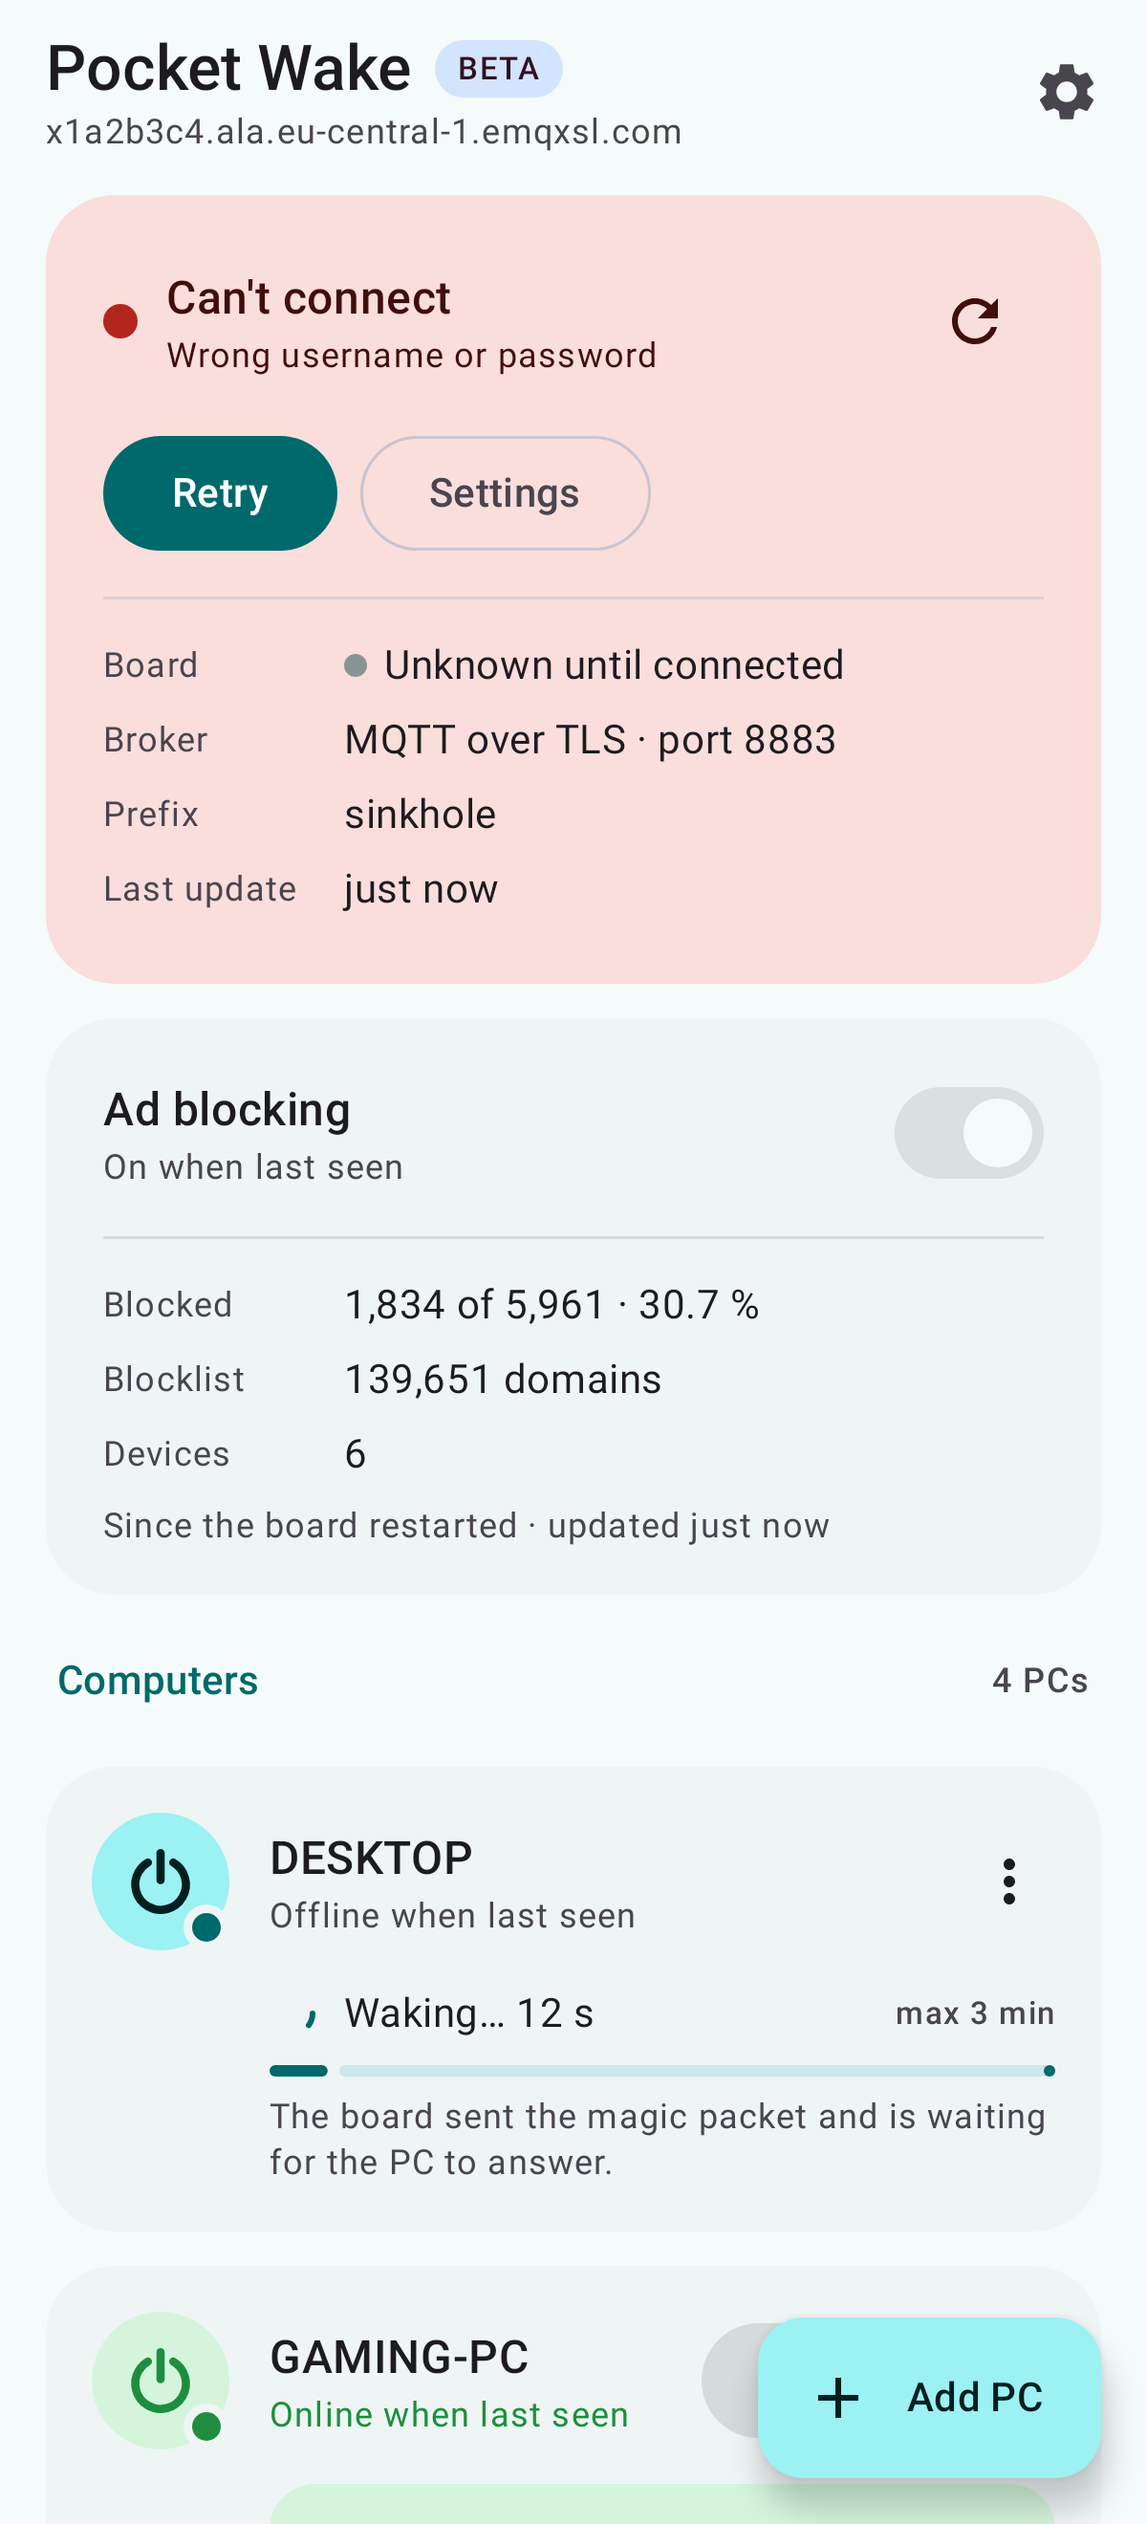
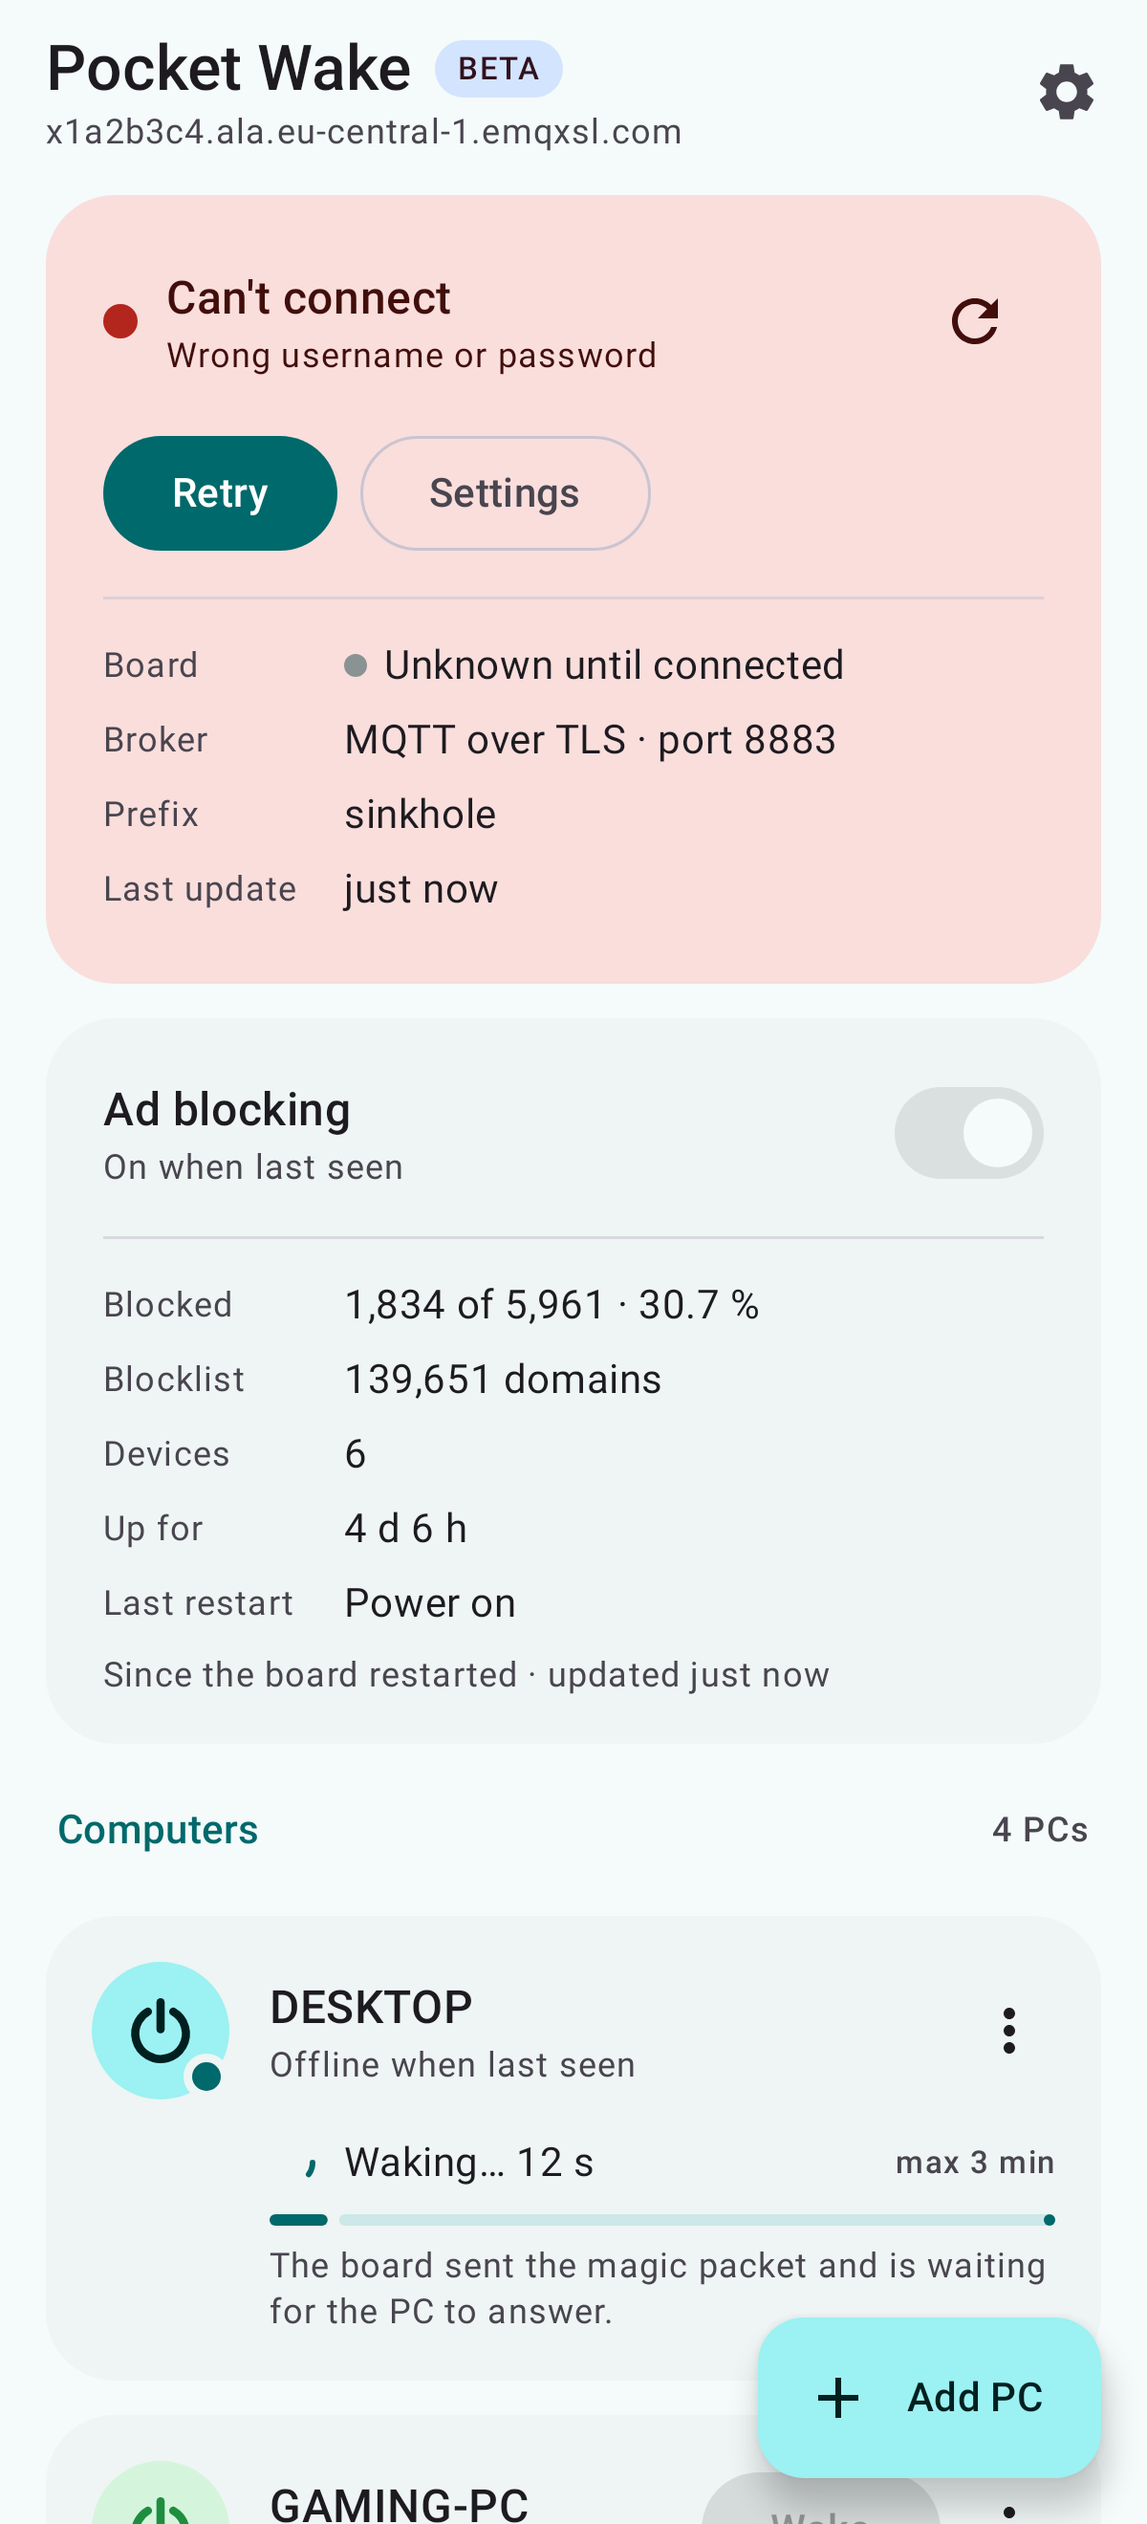
Board uptime and last restart reason from <prefix>/stats (firmware 0.6) (#3)
The board's stats message gains optional "uptime" (seconds) and "restart"
(reason). The Ad blocking card shows "Up for" and "Last restart"; a crash,
watchdog or power dip is marked. Older boards send neither and the rows stay
hidden. Version 0.2.1-beta.

diff --git a/app/src/main/java/io/github/joanrra2/pocketwake/core/Board.kt b/app/src/main/java/io/github/joanrra2/pocketwake/core/Board.kt
@@ -4,8 +4,8 @@ package io.github.joanrra2.pocketwake.core
 const val BLOCKING_CONFIRM_MS = 10_000L
 
 /**
- * `<prefix>/stats` from the board's MQTT bridge, published every 60 s (not retained).
- * Counters run since the board last restarted.
+ * `<prefix>/stats` from the board's MQTT bridge, published every 60 s.
+ * Counters run since the board last restarted. Firmware 0.6 adds [uptime] and [restart].
  */
 data class BoardStats(
     val blocked: Long,
@@ -18,14 +18,37 @@ data class BoardStats(
     val clients: Long,
     /** When this phone received it. */
     val at: Long,
+    /** Seconds since the board booted, when [at] was received; null on older firmware. */
+    val uptime: Long? = null,
+    /** Why the board last restarted ("power on", "crash", "watchdog"…); null on older firmware. */
+    val restart: String? = null,
 ) {
     val total: Long get() = blocked + allowed
 
+    /** Uptime now, counting the time since the message arrived. */
+    fun uptimeAt(now: Long): Long? = uptime?.let { it + ((now - at) / 1000).coerceAtLeast(0) }
+
+    /** The last restart wasn't asked for: a crash, the watchdog or a power dip. */
+    val unexpectedRestart: Boolean
+        get() = restart?.lowercase()?.let { r -> UNEXPECTED.any { it in r } } ?: false
+
     companion object {
+        private val UNEXPECTED = listOf("crash", "watchdog", "brownout", "panic")
+
+        private fun str(json: String, key: String): String? =
+            Regex("\"" + Regex.escape(key) + "\"\\s*:\\s*\"((?:[^\"\\\\]|\\\\.)*)\"").find(json)?.groupValues?.get(1)
+                ?.replace(Regex("\\\\(.)"), "$1")
+                ?.trim()
+                ?.take(60)
+                ?.takeIf { it.isNotEmpty() }
+
         private fun num(json: String, key: String): String? =
             Regex("\"" + Regex.escape(key) + "\"\\s*:\\s*(-?\\d+(?:\\.\\d+)?)").find(json)?.groupValues?.get(1)
 
-        /** Parses `{"blocked":1,"allowed":2,"percent":33.3,"domains":4,"clients":5}`; null if blocked/allowed are missing. */
+        /**
+         * Parses `{"blocked":1,"allowed":2,"percent":33.3,"domains":4,"clients":5,"uptime":60,"restart":"power on"}`;
+         * null if blocked/allowed are missing. The rest is optional.
+         */
         fun parse(json: String, at: Long): BoardStats? {
             val blocked = num(json, "blocked")?.toDoubleOrNull()?.toLong() ?: return null
             val allowed = num(json, "allowed")?.toDoubleOrNull()?.toLong() ?: return null
@@ -37,6 +60,8 @@ data class BoardStats(
                 domains = num(json, "domains")?.toDoubleOrNull()?.toLong() ?: 0,
                 clients = num(json, "clients")?.toDoubleOrNull()?.toLong() ?: 0,
                 at = at,
+                uptime = num(json, "uptime")?.toDoubleOrNull()?.toLong()?.takeIf { it >= 0 },
+                restart = str(json, "restart"),
             )
         }
     }

diff --git a/web/test/core.test.js b/web/test/core.test.js
@@ -206,7 +206,7 @@ test('parses blocking payloads', () => {
 
 test("parses the board's stats", () => {
   const s = C.parseStats('{"blocked":1834,"allowed":4127,"percent":30.7,"domains":139651,"clients":6}', 5);
-  assert.deepEqual(s, { blocked: 1834, allowed: 4127, total: 5961, percent: 30.7, domains: 139651, clients: 6, at: 5 });
+  assert.deepEqual(s, { blocked: 1834, allowed: 4127, total: 5961, percent: 30.7, domains: 139651, clients: 6, at: 5, uptime: null, restart: null });
   assert.equal(C.parseStats('{"blocked":1,"allowed":3}', 0).percent, 25);
   assert.equal(C.parseStats('{"blocked":0,"allowed":0}', 0).percent, 0);
   assert.equal(C.parseStats('{"percent":3}', 0), null);
@@ -239,4 +239,28 @@ test('unconfirmed blocking change times out with a hint', () => {
 test('formats counts and percentages', () => {
   assert.equal(Format.count(139651, 'en-US'), '139,651');
   assert.equal(Format.percent(30.66), '30.7 %');
+});
+
+test('stats from firmware 0.6 carry uptime and the restart reason', () => {
+  const s = C.parseStats('{"blocked":1,"allowed":3,"uptime":3600,"restart":"power dip (brownout)"}', 1000);
+  assert.equal(s.uptime, 3600);
+  assert.equal(s.restart, 'power dip (brownout)');
+  assert.equal(C.statsUptime(s, 1000 + 90_000), 3690);
+  assert.equal(C.unexpectedRestart(s), true);
+  assert.equal(C.unexpectedRestart(C.parseStats('{"blocked":1,"allowed":3,"restart":"firmware update"}', 0)), false);
+  const old = C.parseStats('{"blocked":1,"allowed":3}', 0);
+  assert.equal(old.uptime, null);
+  assert.equal(old.restart, null);
+  assert.equal(C.statsUptime(old, 5000), null);
+  assert.equal(C.parseStats('{"blocked":1,"allowed":3,"uptime":-4,"restart":"  "}', 0).uptime, null);
+  assert.equal(C.parseStats('{"blocked":1,"allowed":3,"restart":"  "}', 0).restart, null);
+});
+
+test('formats board uptime', () => {
+  assert.equal(Format.uptime(45), '45 s');
+  assert.equal(Format.uptime(754), '12 min');
+  assert.equal(Format.uptime(7200), '2 h');
+  assert.equal(Format.uptime(11_520), '3 h 12 min');
+  assert.equal(Format.uptime(86_400), '1 d');
+  assert.equal(Format.uptime(367_200), '4 d 6 h');
 });

diff --git a/web/js/core.js b/web/js/core.js
@@ -71,7 +71,7 @@ export function parseBlocking(payload) {
 }
 
 /**
- * `{"blocked":1,"allowed":2,"percent":33.3,"domains":4,"clients":5}` (every 60 s, counters
+ * `{"blocked":1,"allowed":2,"percent":33.3,"domains":4,"clients":5,"uptime":60,"restart":"power on"}` (every 60 s, counters
  * since the board restarted) -> stats object, or null when blocked/allowed are missing.
  */
 export function parseStats(payload, at) {
@@ -88,8 +88,17 @@ export function parseStats(payload, at) {
     domains: n(o.domains) ?? 0,
     clients: n(o.clients) ?? 0,
     at,
+    // Firmware 0.6+: seconds since boot (when received) and why the board last restarted.
+    uptime: n(o.uptime) !== null && o.uptime >= 0 ? Math.floor(o.uptime) : null,
+    restart: typeof o.restart === 'string' && o.restart.trim() ? o.restart.trim().slice(0, 60) : null,
   };
 }
+
+/** Uptime now, counting the time since the stats arrived; null on older firmware. */
+export const statsUptime = (st, now) => (st.uptime === null ? null : st.uptime + Math.max(0, Math.floor((now - st.at) / 1000)));
+
+/** The last restart wasn't asked for: a crash, the watchdog or a power dip. */
+export const unexpectedRestart = (st) => !!st.restart && /crash|watchdog|brownout|panic/i.test(st.restart);
 
 // The switch: { on: true|false|null (never seen), requested: value asked for until the
 // board confirms, requestedAt, problem: why the last change didn't go through }.
@@ -361,6 +370,16 @@ export const Format = {
 
   /** 30.66 -> "30.7 %". */
   percent: (p) => `${Number(p).toFixed(1)} %`,
+
+  /** Board uptime: 45 -> "45 s", 754 -> "12 min", 11520 -> "3 h 12 min", 367200 -> "4 d 6 h". */
+  uptime(total) {
+    const s = Math.max(0, Math.floor(total));
+    const m = Math.floor(s / 60), h = Math.floor(s / 3600), d = Math.floor(s / 86400);
+    if (s < 60) return `${s} s`;
+    if (s < 3600) return `${m} min`;
+    if (s < 86400) return m % 60 ? `${h} h ${m % 60} min` : `${h} h`;
+    return h % 24 ? `${d} d ${h % 24} h` : `${d} d`;
+  },
 
   /** 7 -> "7 s", 65 -> "1 min 5 s", 120 -> "2 min". */
   seconds(total) {

diff --git a/app/src/test/java/io/github/joanrra2/pocketwake/core/BoardTest.kt b/app/src/test/java/io/github/joanrra2/pocketwake/core/BoardTest.kt
@@ -37,6 +37,36 @@ class BoardTest {
         assertNull(BoardStats.parse("", 0))
     }
 
+    @Test fun `stats from firmware 0_6 carry uptime and the restart reason`() {
+        val s = BoardStats.parse("""{"blocked":1,"allowed":3,"uptime":3600,"restart":"power dip (brownout)"}""", at = 1_000)!!
+        assertEquals(3600L, s.uptime)
+        assertEquals("power dip (brownout)", s.restart)
+        assertEquals(3690L, s.uptimeAt(1_000 + 90_000))
+        assertTrue(s.unexpectedRestart)
+        assertFalse(BoardStats.parse("""{"blocked":1,"allowed":3,"restart":"firmware update"}""", 0)!!.unexpectedRestart)
+        assertEquals("say \"hi\"", BoardStats.parse("""{"blocked":1,"allowed":3,"restart":"say \"hi\""}""", 0)!!.restart)
+    }
+
+    @Test fun `older boards send neither`() {
+        val s = BoardStats.parse("""{"blocked":1,"allowed":3}""", 0)!!
+        assertNull(s.uptime)
+        assertNull(s.restart)
+        assertNull(s.uptimeAt(5_000))
+        assertFalse(s.unexpectedRestart)
+        assertNull(BoardStats.parse("""{"blocked":1,"allowed":3,"uptime":-4,"restart":"  "}""", 0)!!.uptime)
+        assertNull(BoardStats.parse("""{"blocked":1,"allowed":3,"restart":"  "}""", 0)!!.restart)
+    }
+
+    @Test fun `formats board uptime`() {
+        assertEquals("45 s", Format.uptime(45))
+        assertEquals("12 min", Format.uptime(754))
+        assertEquals("2 h", Format.uptime(7200))
+        assertEquals("3 h 12 min", Format.uptime(11_520))
+        assertEquals("1 d", Format.uptime(86_400))
+        assertEquals("4 d 6 h", Format.uptime(367_200))
+        assertEquals("Power on", Format.sentence("power on"))
+    }
+
     @Test fun `parses blocking payloads`() {
         assertEquals(true, Blocking.parse("ON"))
         assertEquals(true, Blocking.parse(" on\n"))

diff --git a/web/js/app.js b/web/js/app.js
@@ -4,7 +4,7 @@ import * as C from './core.js';
 import * as Store from './store.js';
 import { openSession, testConnection } from './broker.js';
 
-const VERSION = '0.2.0-beta';
+const VERSION = '0.2.1-beta';
 const { Topics, Format } = C;
 
 const state = {
@@ -360,6 +360,8 @@ function boardCard() {
       <span class="k">Blocked</span><span class="v">${Format.count(st.blocked)} of ${Format.count(st.total)} · ${Format.percent(st.percent)}</span>
       <span class="k">Blocklist</span><span class="v">${Format.count(st.domains)} domains</span>
       <span class="k">Devices</span><span class="v">${Format.count(st.clients)}</span>
+      ${st.uptime !== null ? `<span class="k">Up for</span><span class="v">${Format.uptime(C.statsUptime(st, state.now))}</span>` : ''}
+      ${st.restart ? `<span class="k">Last restart</span><span class="v${C.unexpectedRestart(st) ? ' warn-c' : ''}">${esc(st.restart.charAt(0).toUpperCase() + st.restart.slice(1))}</span>` : ''}
     </div>
     <p class="muted small mt8">Since the board restarted · updated ${Format.ago(state.now, st.at)}</p>`
     : on ? '<p class="muted small mt8">Blocking stats arrive within a minute.</p>' : '';

diff --git a/app/src/main/java/io/github/joanrra2/pocketwake/ui/HomeScreen.kt b/app/src/main/java/io/github/joanrra2/pocketwake/ui/HomeScreen.kt
@@ -375,6 +375,14 @@ private fun BoardCard(ui: UiState, onSetBlocking: (Boolean) -> Unit) {
                 InfoRow("Blocked", value = "${Format.count(st.blocked)} of ${Format.count(st.total)} · ${Format.percent(st.percent)}")
                 InfoRow("Blocklist", value = "${Format.count(st.domains)} domains")
                 InfoRow("Devices", value = Format.count(st.clients))
+                st.uptimeAt(ui.now)?.let { InfoRow("Up for", value = Format.uptime(it)) }
+                st.restart?.let { why ->
+                    InfoRow(
+                        "Last restart",
+                        leading = if (st.unexpectedRestart) ({ StatusDot(LocalStatusColors.current.warning, size = 8.dp) }) else null,
+                        value = Format.sentence(why),
+                    )
+                }
                 Text(
                     "Since the board restarted · updated ${Format.ago(ui.now, st.at)}",
                     style = MaterialTheme.typography.bodySmall,

diff --git a/app/src/main/java/io/github/joanrra2/pocketwake/core/Format.kt b/app/src/main/java/io/github/joanrra2/pocketwake/core/Format.kt
@@ -16,6 +16,20 @@ object Format {
         }
     }
 
+    /** Board uptime: 45 -> "45 s", 754 -> "12 min", 11_520 -> "3 h 12 min", 367_200 -> "4 d 6 h". */
+    fun uptime(total: Long): String {
+        val s = total.coerceAtLeast(0)
+        return when {
+            s < 60 -> "$s s"
+            s < 3600 -> "${s / 60} min"
+            s < 86_400 -> if (s / 60 % 60 == 0L) "${s / 3600} h" else "${s / 3600} h ${s / 60 % 60} min"
+            else -> if (s / 3600 % 24 == 0L) "${s / 86_400} d" else "${s / 86_400} d ${s / 3600 % 24} h"
+        }
+    }
+
+    /** "power dip (brownout)" -> "Power dip (brownout)". */
+    fun sentence(text: String): String = text.replaceFirstChar { it.uppercaseChar() }
+
     /** 139651 -> "139,651" (grouped for [locale]). */
     fun count(n: Long, locale: Locale = Locale.getDefault()): String = java.text.NumberFormat.getIntegerInstance(locale).format(n)
 

diff --git a/app/src/main/java/io/github/joanrra2/pocketwake/core/Topics.kt b/app/src/main/java/io/github/joanrra2/pocketwake/core/Topics.kt
@@ -8,7 +8,7 @@ package io.github.joanrra2.pocketwake.core
  *   <prefix>/wol/<name>/set      any payload wakes <name> (check, wake, verify)
  *   <prefix>/blocking            ON / OFF (retained), ad blocking
  *   <prefix>/blocking/set        ON / OFF turns ad blocking on or off
- *   <prefix>/stats               JSON every 60 s: blocked, allowed, percent, domains, clients
+ *   <prefix>/stats               JSON every 60 s: blocked, allowed, percent, domains, clients (+ uptime, restart)
  *
  * Host names are case-sensitive and used verbatim as one topic level.
  */

diff --git a/app/src/test/java/io/github/joanrra2/pocketwake/ui/ScreenshotTest.kt b/app/src/test/java/io/github/joanrra2/pocketwake/ui/ScreenshotTest.kt
@@ -68,7 +68,7 @@ class ScreenshotTest {
         lastMessageAt = now - 4_000,
         now = now,
         blocking = Blocking(on = true),
-        stats = BoardStats(blocked = 1834, allowed = 4127, percent = 30.7, domains = 139_651, clients = 6, at = now - 40_000),
+        stats = BoardStats(blocked = 1834, allowed = 4127, percent = 30.7, domains = 139_651, clients = 6, at = now - 40_000, uptime = 367_200, restart = "power on"),
     )
 
     private fun shot(name: String, dark: Boolean = false, content: @Composable () -> Unit) {

diff --git a/web/sw.js b/web/sw.js
@@ -1,6 +1,6 @@
 // Offline start for the installed app. Network first, so updates show up on the next
 // launch; the cached copy is used only when offline. MQTT traffic never goes through here.
-const CACHE = 'pocketwake-v6';
+const CACHE = 'pocketwake-v7';
 const SHELL = [
   './', 'index.html', 'css/app.css', 'js/app.js', 'js/core.js', 'js/store.js', 'js/broker.js',
   'vendor/mqtt.esm.js', 'manifest.webmanifest', 'icons/icon.svg', 'icons/icon-192.png', 'icons/apple-touch-icon.png',

diff --git a/README.md b/README.md
@@ -38,6 +38,8 @@ home network, checks that the PC answers, and the app shows **Online after 23 s*
 - **Last wake** per PC ("Last woken yesterday · online after 41 s"), kept on the phone.
 - **Ad blocking** card: an on/off switch for the board's blocking (turning it off asks
   first) and its stats (queries blocked, blocklist size, devices), updated every minute.
+  With board firmware 0.6 or later it also shows how long the board has been up and why
+  it last restarted (a crash, the watchdog or a power dip is marked).
   It appears only when the phone's broker login may read `<prefix>/blocking`; see
   [the optional rules](docs/SETUP.md#2-create-the-mqtt-broker).
 - **Wake shortcuts** (Android): long-press the app icon for the last woken PCs, or
@@ -90,7 +92,7 @@ In short:
 | `<prefix>/status` | board → app | `online` / `offline` (retained, last will) |
 | `<prefix>/blocking` | board → app | `ON` / `OFF` (retained), ad blocking |
 | `<prefix>/blocking/set` | app → board | `ON` / `OFF` (QoS 1, not retained) |
-| `<prefix>/stats` | board → app | JSON every 60 s: `blocked`, `allowed`, `percent`, `domains`, `clients` |
+| `<prefix>/stats` | board → app | JSON every 60 s: `blocked`, `allowed`, `percent`, `domains`, `clients`; firmware 0.6+ adds `uptime` (s) and `restart` (reason) |
 
 The last three are optional: without them the app simply hides the ad-blocking card.
 

diff --git a/ROADMAP.md b/ROADMAP.md
@@ -60,7 +60,8 @@ topics are final:
   wake (a "wake NAME" command), for people who don't want an MQTT broker.
 - **Watch-only hosts** (NAS, printer, a server): online/offline dot, no Wake button.
 - **Board health over MQTT** with a real clock: firmware version, uptime, last restart
-  and its reason, Wi-Fi signal, update available. Shown on the connection card.
+  and its reason, Wi-Fi signal, update available. ~~Uptime and last restart~~ are done in
+  0.2.1 (from `<prefix>/stats`, on the *Ad blocking* card); the rest waits for the firmware.
 
 Still open **(firmware)**:
 
